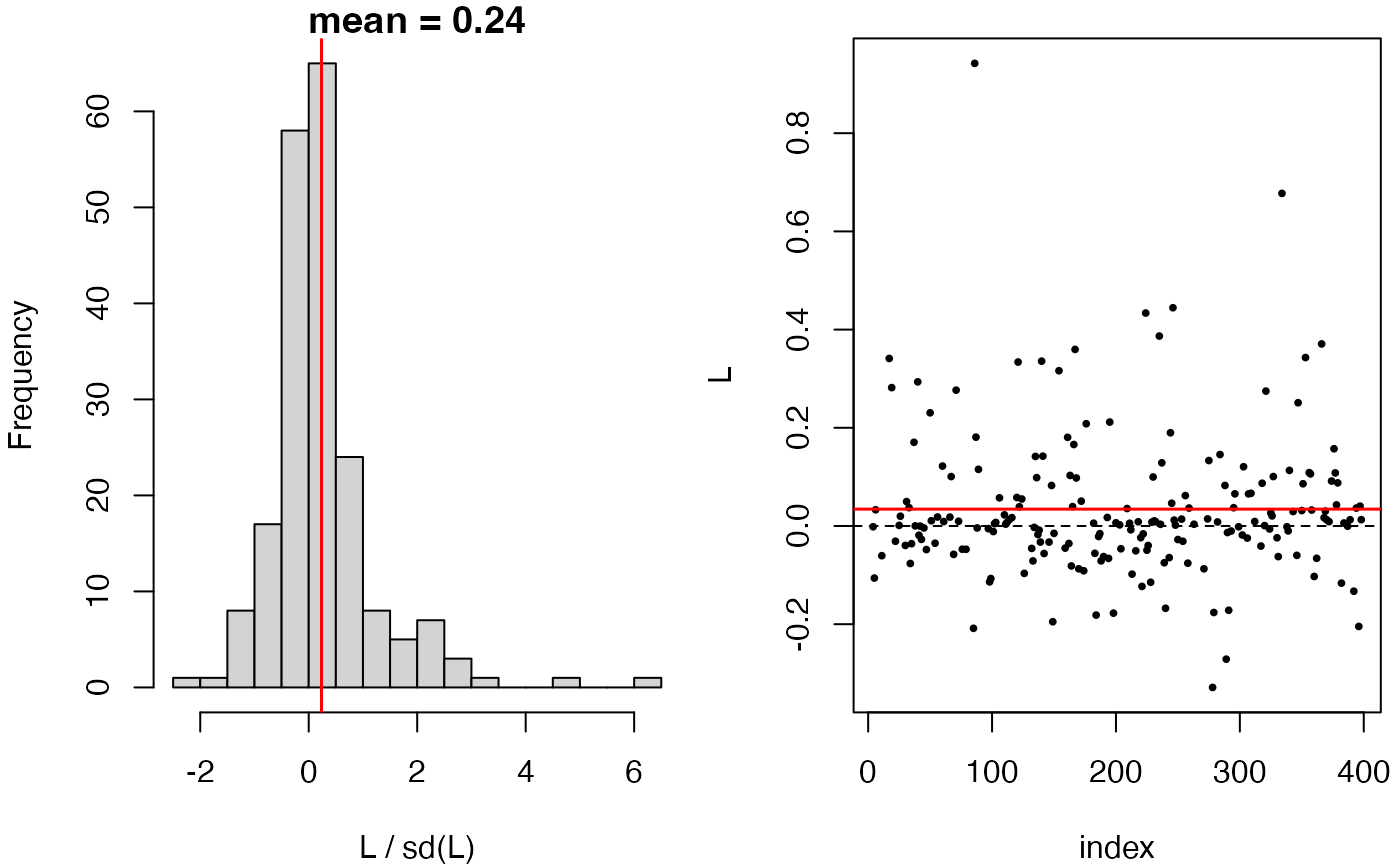
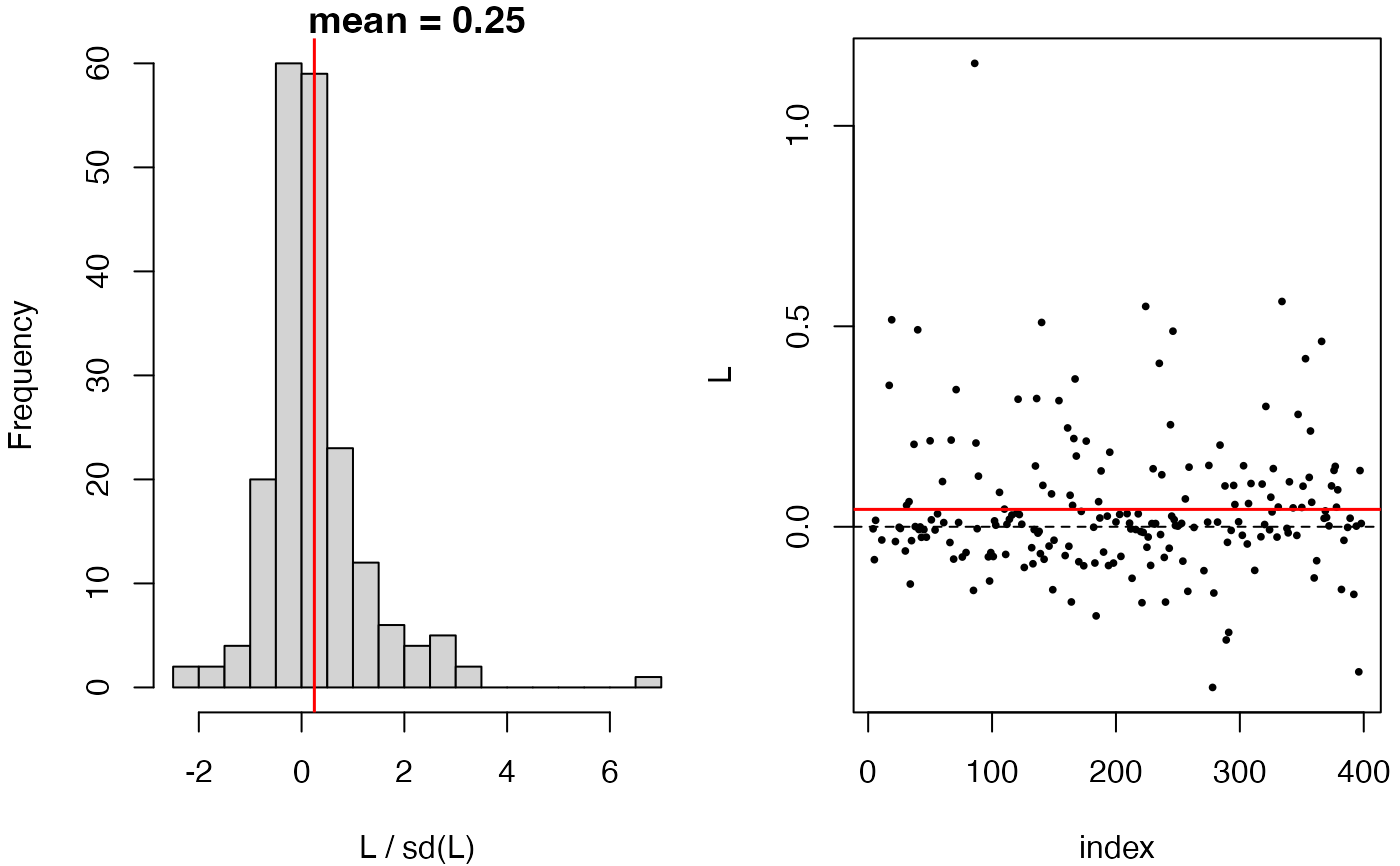
Built site for dScoreTest@0.2.0:

diff --git a/reference/fit_CATE.html b/reference/fit_CATE.html
@@ -54,7 +54,14 @@ $$\mathbb{E}[Y|T,Z] = \mu_0(Z) + T \cdot \tau(Z), \quad \mu_0(Z) := \mathbb{E}[Y
 
     <div class="section level2">
     <h2 id="ref-usage">Usage<a class="anchor" aria-label="anchor" href="#ref-usage"></a></h2>
-    <div class="sourceCode"><pre class="sourceCode r"><code><span><span class="fu">fit_CATE</span><span class="op">(</span><span class="va">y</span>, <span class="va">X</span>, w <span class="op">=</span> <span class="fu"><a href="https://rdrr.io/r/base/rep.html" class="external-link">rep</a></span><span class="op">(</span><span class="fl">1</span>, <span class="fu"><a href="https://rdrr.io/r/base/nrow.html" class="external-link">nrow</a></span><span class="op">(</span><span class="va">X</span><span class="op">)</span><span class="op">)</span>, S <span class="op">=</span> <span class="fl">1</span><span class="op">:</span><span class="op">(</span><span class="fu"><a href="https://rdrr.io/r/base/nrow.html" class="external-link">ncol</a></span><span class="op">(</span><span class="va">X</span><span class="op">)</span> <span class="op">-</span> <span class="fl">1</span><span class="op">)</span>, folds.crossfit <span class="op">=</span> <span class="fl">5</span><span class="op">)</span></span></code></pre></div>
+    <div class="sourceCode"><pre class="sourceCode r"><code><span><span class="fu">fit_CATE</span><span class="op">(</span></span>
+<span>  <span class="va">y</span>,</span>
+<span>  <span class="va">X</span>,</span>
+<span>  w <span class="op">=</span> <span class="fu"><a href="https://rdrr.io/r/base/rep.html" class="external-link">rep</a></span><span class="op">(</span><span class="fl">1</span>, <span class="fu"><a href="https://rdrr.io/r/base/nrow.html" class="external-link">nrow</a></span><span class="op">(</span><span class="va">X</span><span class="op">)</span><span class="op">)</span>,</span>
+<span>  S <span class="op">=</span> <span class="fl">1</span><span class="op">:</span><span class="op">(</span><span class="fu"><a href="https://rdrr.io/r/base/nrow.html" class="external-link">ncol</a></span><span class="op">(</span><span class="va">X</span><span class="op">)</span> <span class="op">-</span> <span class="fl">1</span><span class="op">)</span>,</span>
+<span>  folds.crossfit <span class="op">=</span> <span class="fl">5</span>,</span>
+<span>  randomized <span class="op">=</span> <span class="cn">FALSE</span></span>
+<span><span class="op">)</span></span></code></pre></div>
     </div>
 
     <div class="section level2">
@@ -88,6 +95,15 @@ CATE is unrestricted.</p></dd>
 <dt id="arg-folds-crossfit">folds.crossfit<a class="anchor" aria-label="anchor" href="#arg-folds-crossfit"></a></dt>
 <dd><p>An integer for the number of folds in cross fitting
 using the R-loss to estimate CATE. When it is 1, no cross fitting is used.</p></dd>
+
+
+<dt id="arg-randomized">randomized<a class="anchor" aria-label="anchor" href="#arg-randomized"></a></dt>
+<dd><p>If <code>FALSE</code> (default), the propensity \(e(Z) =
+     \mathbb{E}[T \mid Z]\) is estimated by a cross-fitted
+<code><a href="https://rdrr.io/pkg/grf/man/probability_forest.html" class="external-link">grf::probability_forest</a></code>. If <code>TRUE</code>, \(T\) is assumed to
+be randomized (independent of <code>Z</code>), so \(e(Z)\) is taken to be
+the constant <code>mean(T)</code>, fitted upfront on the full sample without
+cross-fitting.</p></dd>
 
 </dl></div>
     <div class="section level2">

diff --git a/reference/debias_hte_conditional.html b/reference/debias_hte_conditional.html
@@ -67,7 +67,8 @@ This function returns the debiased hunt function \(\hat{h} - \hat{m}_{\hat{h}}\)
 <span>  <span class="va">predict_fun</span>,</span>
 <span>  <span class="va">weight_fun</span>,</span>
 <span>  <span class="va">wls_method</span>,</span>
-<span>  <span class="va">arg.wls_method</span></span>
+<span>  <span class="va">arg.wls_method</span>,</span>
+<span>  randomized <span class="op">=</span> <span class="cn">FALSE</span></span>
 <span><span class="op">)</span></span></code></pre></div>
     </div>
 
@@ -84,6 +85,15 @@ This function returns the debiased hunt function \(\hat{h} - \hat{m}_{\hat{h}}\)
 <dt id="arg-x-debias-fit-debias-predict-fun-weight-fun-wls-method-arg-wls-method">X.debias, fit.debias, predict_fun, weight_fun, wls_method, arg.wls_method<a class="anchor" aria-label="anchor" href="#arg-x-debias-fit-debias-predict-fun-weight-fun-wls-method-arg-wls-method"></a></dt>
 <dd><p>See <code><a href="dScoreTest.html">dScoreTest()</a></code> for details.
 Argument <code>arg.wls_method</code> must contain field <code>S</code> that defines the model space.</p></dd>
+
+
+<dt id="arg-randomized">randomized<a class="anchor" aria-label="anchor" href="#arg-randomized"></a></dt>
+<dd><p>If <code>FALSE</code> (default), the propensity
+\(e(Z) = \mathbb{E}[T \mid Z]\) is estimated with
+<code><a href="https://rdrr.io/pkg/grf/man/probability_forest.html" class="external-link">grf::probability_forest</a></code>. If <code>TRUE</code>, <code>T</code> is assumed
+randomized (independent of <code>Z</code>), so \(e(Z)\) is taken to be
+the constant <code>mean(T)</code> on the debiasing sample, fitted upfront
+without cross-fitting.</p></dd>
 
 </dl></div>
     <div class="section level2">

diff --git a/reference/hte_test_conditional.html b/reference/hte_test_conditional.html
@@ -73,7 +73,8 @@ has no further effect modification while holding \(Z_{S^c}\) fixed.</p>
 <span>  trim.outlier.hunt <span class="op">=</span> <span class="cn">TRUE</span>,</span>
 <span>  splits <span class="op">=</span> <span class="fu"><a href="https://rdrr.io/r/base/c.html" class="external-link">c</a></span><span class="op">(</span><span class="fl">0.5</span>, <span class="fl">0.5</span><span class="op">)</span>,</span>
 <span>  arg.hunt_grf <span class="op">=</span> <span class="fu"><a href="https://rdrr.io/r/base/list.html" class="external-link">list</a></span><span class="op">(</span>honesty <span class="op">=</span> <span class="cn">FALSE</span>, tune.parameters <span class="op">=</span> <span class="st">"all"</span><span class="op">)</span>,</span>
-<span>  verbose <span class="op">=</span> <span class="cn">FALSE</span></span>
+<span>  verbose <span class="op">=</span> <span class="cn">FALSE</span>,</span>
+<span>  randomized <span class="op">=</span> <span class="cn">FALSE</span></span>
 <span><span class="op">)</span></span></code></pre></div>
     </div>
 
@@ -120,6 +121,15 @@ model fitted separately for the treated and control arms (T-learner).</p></dd>
 <dt id="arg-arg-hunt-grf">arg.hunt_grf<a class="anchor" aria-label="anchor" href="#arg-arg-hunt-grf"></a></dt>
 <dd><p>Arguments passed to <code><a href="https://rdrr.io/pkg/grf/man/regression_forest.html" class="external-link">grf::regression_forest()</a></code>
 for hunting.</p></dd>
+
+
+<dt id="arg-randomized">randomized<a class="anchor" aria-label="anchor" href="#arg-randomized"></a></dt>
+<dd><p>If <code>FALSE</code> (default), the propensity
+\(e(Z) = \mathbb{E}[T \mid Z]\) used by <code><a href="fit_CATE.html">fit_CATE</a></code> and by
+the debiasing step is estimated with <code><a href="https://rdrr.io/pkg/grf/man/probability_forest.html" class="external-link">grf::probability_forest</a></code>. If
+<code>TRUE</code>, <code>T</code> is assumed randomized (independent of <code>Z</code>),
+so \(e(Z)\) is taken to be the constant <code>mean(T)</code>, fitted upfront
+without cross-fitting.</p></dd>
 
 </dl></div>
     <div class="section level2">

diff --git a/articles/hte.html b/articles/hte.html
@@ -152,7 +152,7 @@ are computed on the same sample and are therefore dependent.</p>
 <span><span class="va">results</span></span>
 <span><span class="co">#&gt;   covariate               label n.reps harmonic.p</span></span>
 <span><span class="co">#&gt; 1      homo Homosexual activity     10 0.02206674</span></span>
-<span><span class="co">#&gt; 2      cd40                 CD4     10 0.02553153</span></span></code></pre></div>
+<span><span class="co">#&gt; 2      cd40                 CD4     10 0.02535719</span></span></code></pre></div>
 <p>Both covariates come back with harmonic p-values below the
 conventional 0.05 threshold, suggesting that both homosexual activity
 and baseline CD4 count may modify the effect of combination therapy

diff --git a/reference/fit_CATE.md b/reference/fit_CATE.md
@@ -8,7 +8,14 @@ fitting to estimate \$\$\mathbb{E}\[Y\|T,Z\] = \mu_0(Z) + T \cdot
 ## Usage
 
 ``` r
-fit_CATE(y, X, w = rep(1, nrow(X)), S = 1:(ncol(X) - 1), folds.crossfit = 5)
+fit_CATE(
+  y,
+  X,
+  w = rep(1, nrow(X)),
+  S = 1:(ncol(X) - 1),
+  folds.crossfit = 5,
+  randomized = FALSE
+)
 ```
 
 ## Arguments
@@ -41,6 +48,15 @@ fit_CATE(y, X, w = rep(1, nrow(X)), S = 1:(ncol(X) - 1), folds.crossfit = 5)
 
   An integer for the number of folds in cross fitting using the R-loss
   to estimate CATE. When it is 1, no cross fitting is used.
+
+- randomized:
+
+  If `FALSE` (default), the propensity \\e(Z) = \mathbb{E}\[T \mid Z\]\\
+  is estimated by a cross-fitted
+  [`grf::probability_forest`](https://rdrr.io/pkg/grf/man/probability_forest.html).
+  If `TRUE`, \\T\\ is assumed to be randomized (independent of `Z`), so
+  \\e(Z)\\ is taken to be the constant `mean(T)`, fitted upfront on the
+  full sample without cross-fitting.
 
 ## Value
 

diff --git a/reference/hte_test_conditional.md b/reference/hte_test_conditional.md
@@ -22,7 +22,8 @@ hte_test_conditional(
   trim.outlier.hunt = TRUE,
   splits = c(0.5, 0.5),
   arg.hunt_grf = list(honesty = FALSE, tune.parameters = "all"),
-  verbose = FALSE
+  verbose = FALSE,
+  randomized = FALSE
 )
 ```
 
@@ -72,6 +73,17 @@ hte_test_conditional(
   Arguments passed to
   [`grf::regression_forest()`](https://rdrr.io/pkg/grf/man/regression_forest.html)
   for hunting.
+
+- randomized:
+
+  If `FALSE` (default), the propensity \\e(Z) = \mathbb{E}\[T \mid Z\]\\
+  used by
+  [`fit_CATE`](https://unbiased.co.in/dScoreTest/reference/fit_CATE.md)
+  and by the debiasing step is estimated with
+  [`grf::probability_forest`](https://rdrr.io/pkg/grf/man/probability_forest.html).
+  If `TRUE`, `T` is assumed randomized (independent of `Z`), so \\e(Z)\\
+  is taken to be the constant `mean(T)`, fitted upfront without
+  cross-fitting.
 
 ## Value
 

diff --git a/reference/debias_hte_conditional.md b/reference/debias_hte_conditional.md
@@ -18,7 +18,8 @@ debias_hte_conditional(
   predict_fun,
   weight_fun,
   wls_method,
-  arg.wls_method
+  arg.wls_method,
+  randomized = FALSE
 )
 ```
 
@@ -40,6 +41,15 @@ debias_hte_conditional(
   [`dScoreTest()`](https://unbiased.co.in/dScoreTest/reference/dScoreTest.md)
   for details. Argument `arg.wls_method` must contain field `S` that
   defines the model space.
+
+- randomized:
+
+  If `FALSE` (default), the propensity \\e(Z) = \mathbb{E}\[T \mid Z\]\\
+  is estimated with
+  [`grf::probability_forest`](https://rdrr.io/pkg/grf/man/probability_forest.html).
+  If `TRUE`, `T` is assumed randomized (independent of `Z`), so \\e(Z)\\
+  is taken to be the constant `mean(T)` on the debiasing sample, fitted
+  upfront without cross-fitting.
 
 ## Value
 

diff --git a/articles/hte.md b/articles/hte.md
@@ -76,7 +76,7 @@ rownames(results) <- NULL
 results
 #>   covariate               label n.reps harmonic.p
 #> 1      homo Homosexual activity     10 0.02206674
-#> 2      cd40                 CD4     10 0.02553153
+#> 2      cd40                 CD4     10 0.02535719
 ```
 
 Both covariates come back with harmonic p-values below the conventional